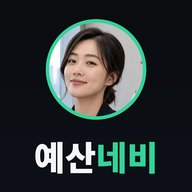
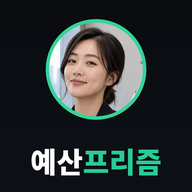
이름을 '클사무관의 예산 프리즘'으로 변경: 제목·헤더·매니페스트·아이콘 배지·OG 미리보기(부제: 예산 지도·트리·목록 탐색)
Claude-Session: https://claude.ai/code/session_01Szm5GEmJDK5sA6A5Abeuk8

Changed region(s): [[0.1562, 0.7188, 0.8438, 0.9375]]

diff --git a/index.html b/index.html
@@ -4,17 +4,21 @@
 <meta charset="utf-8">
 <script>(function(){var p=new URLSearchParams(location.search);if(!p.get("v")){location.replace(location.pathname+"?v=9"+location.hash);return;}if(!location.hash)location.replace("map.html?v=9");})();</script>   <!-- 처음 주소로 들어오면 캐시를 피하는 ?v=9를 붙이고 예산 지도로 보낸다 -->
 <meta name="viewport" content="width=device-width,initial-scale=1">
-<title>클사무관의 예산 네비</title>
+<title>클사무관의 예산 프리즘</title>
 <link rel="icon" type="image/png" href="assets/icon-192.png">
 <meta name="theme-color" content="#0a0c10">
 <link rel="manifest" href="manifest.json">
 <link rel="apple-touch-icon" href="assets/apple-touch-icon.png">
 <meta name="apple-mobile-web-app-capable" content="yes">
-<meta name="apple-mobile-web-app-title" content="예산 네비">
+<meta name="apple-mobile-web-app-title" content="예산 프리즘">
 <link rel="preconnect" href="https://cdn.jsdelivr.net">
 <link rel="stylesheet" href="https://cdn.jsdelivr.net/gh/orioncactus/pretendard@v1.3.9/dist/web/variable/pretendardvariable-dynamic-subset.min.css">
-<meta property="og:title" content="예산네비 by 클사무관">
-<meta property="og:image" content="assets/icon-512.png">
+<meta name="description" content="클사무관의 예산 프리즘 · 예산 지도·트리·목록 탐색">
+<meta property="og:title" content="예산프리즘 by 클사무관">
+<meta property="og:description" content="클사무관의 예산 프리즘 · 예산 지도·트리·목록 탐색">
+<meta property="og:type" content="website">
+<meta property="og:url" content="https://lloydknam.github.io/AIBudget/">
+<meta property="og:image" content="https://lloydknam.github.io/AIBudget/assets/icon-512.png">
 <style>
 :root{color-scheme:dark;--bg:#0a0c10;--card:#0e1217;--ink:#fff;--sub:#8a909c;--line:#20252d;--accent:#28cc95;--warn:#ff8a3d;--ok:#28cc95;--note-bg:#11161c;--note-ink:#9aa1ad}
 *{box-sizing:border-box}
@@ -134,7 +138,7 @@ footer .lab img{display:block;height:34px;width:auto;max-width:100%}
 <body>
 <header class="ghead">
   <a class="brand" href="map.html"><img src="assets/clerk.jpg" alt="클사무관" width="56" height="56">
-    <h1>클사무관의 <em>예산 네비</em></h1></a>
+    <h1>클사무관의 <em>예산 프리즘</em></h1></a>
   <div class="hsearch" role="search">
     <input id="gq" type="search" placeholder="사업 검색" autocomplete="off" aria-label="사업 검색" enterkeyhint="search">
     <button class="clr" id="gclr" aria-label="검색어 지우기" hidden>×</button>

diff --git a/map.html b/map.html
@@ -3,13 +3,19 @@
 <head>
 <meta charset="utf-8">
 <meta name="viewport" content="width=device-width,initial-scale=1,viewport-fit=cover">
-<title>예산네비 by 클사무관</title>
+<title>예산프리즘 by 클사무관</title>
+<meta name="description" content="클사무관의 예산 프리즘 · 예산 지도·트리·목록 탐색">
+<meta property="og:title" content="예산프리즘 by 클사무관">
+<meta property="og:description" content="클사무관의 예산 프리즘 · 예산 지도·트리·목록 탐색">
+<meta property="og:type" content="website">
+<meta property="og:url" content="https://lloydknam.github.io/AIBudget/">
+<meta property="og:image" content="https://lloydknam.github.io/AIBudget/assets/icon-512.png">
 <link rel="icon" type="image/png" href="assets/icon-192.png">
 <meta name="theme-color" content="#0a0c10">
 <link rel="manifest" href="manifest.json">
 <link rel="apple-touch-icon" href="assets/apple-touch-icon.png">
 <meta name="apple-mobile-web-app-capable" content="yes">
-<meta name="apple-mobile-web-app-title" content="예산 네비">
+<meta name="apple-mobile-web-app-title" content="예산 프리즘">
 <link rel="preconnect" href="https://cdn.jsdelivr.net">
 <link rel="stylesheet" href="https://cdn.jsdelivr.net/gh/orioncactus/pretendard@v1.3.9/dist/web/variable/pretendardvariable-dynamic-subset.min.css">
 <style>
@@ -304,7 +310,7 @@ body.tree-mode .crumb{display:none}
 </head>
 <body>
 <div class="app">
-<header class="ghead"><a class="brand" href="map.html"><img src="assets/clerk.jpg" alt="클사무관" width="46" height="46"><h1>클사무관의 <em>예산 네비</em></h1></a>
+<header class="ghead"><a class="brand" href="map.html"><img src="assets/clerk.jpg" alt="클사무관" width="46" height="46"><h1>클사무관의 <em>예산 프리즘</em></h1></a>
 <div class="hsearch" role="search">
   <input id="q" type="search" placeholder="사업 검색" autocomplete="off" aria-label="예산 검색" enterkeyhint="search">
   <button class="clr" id="qclr" aria-label="검색어 지우기" hidden>×</button>

diff --git a/README.md b/README.md
@@ -1,4 +1,6 @@
-# 클사무관의 예산 네비
+# 클사무관의 예산 프리즘
+
+예산 지도·트리·목록 탐색
 
 국가 예산 세부사업을 탐색하고 심사 참고 대상을 골라 보는 개인 프로젝트입니다. 메뉴 구성은 「국가예산 AI 분석시스템 안내」 책자의 메뉴(홈·한눈에 보기는 '주요분석'으로 합침, 심사 참고, 조건으로 찾기, AI에게 묻기)와 부가 메뉴(삶의 질 지표)를 참고했습니다. 맨 왼쪽 '예산 지도'가 첫 화면이며, 루트 주소로 들어오면 예산 지도로 이동합니다. 공식 시스템과는 무관한 독립 구현입니다.
 
